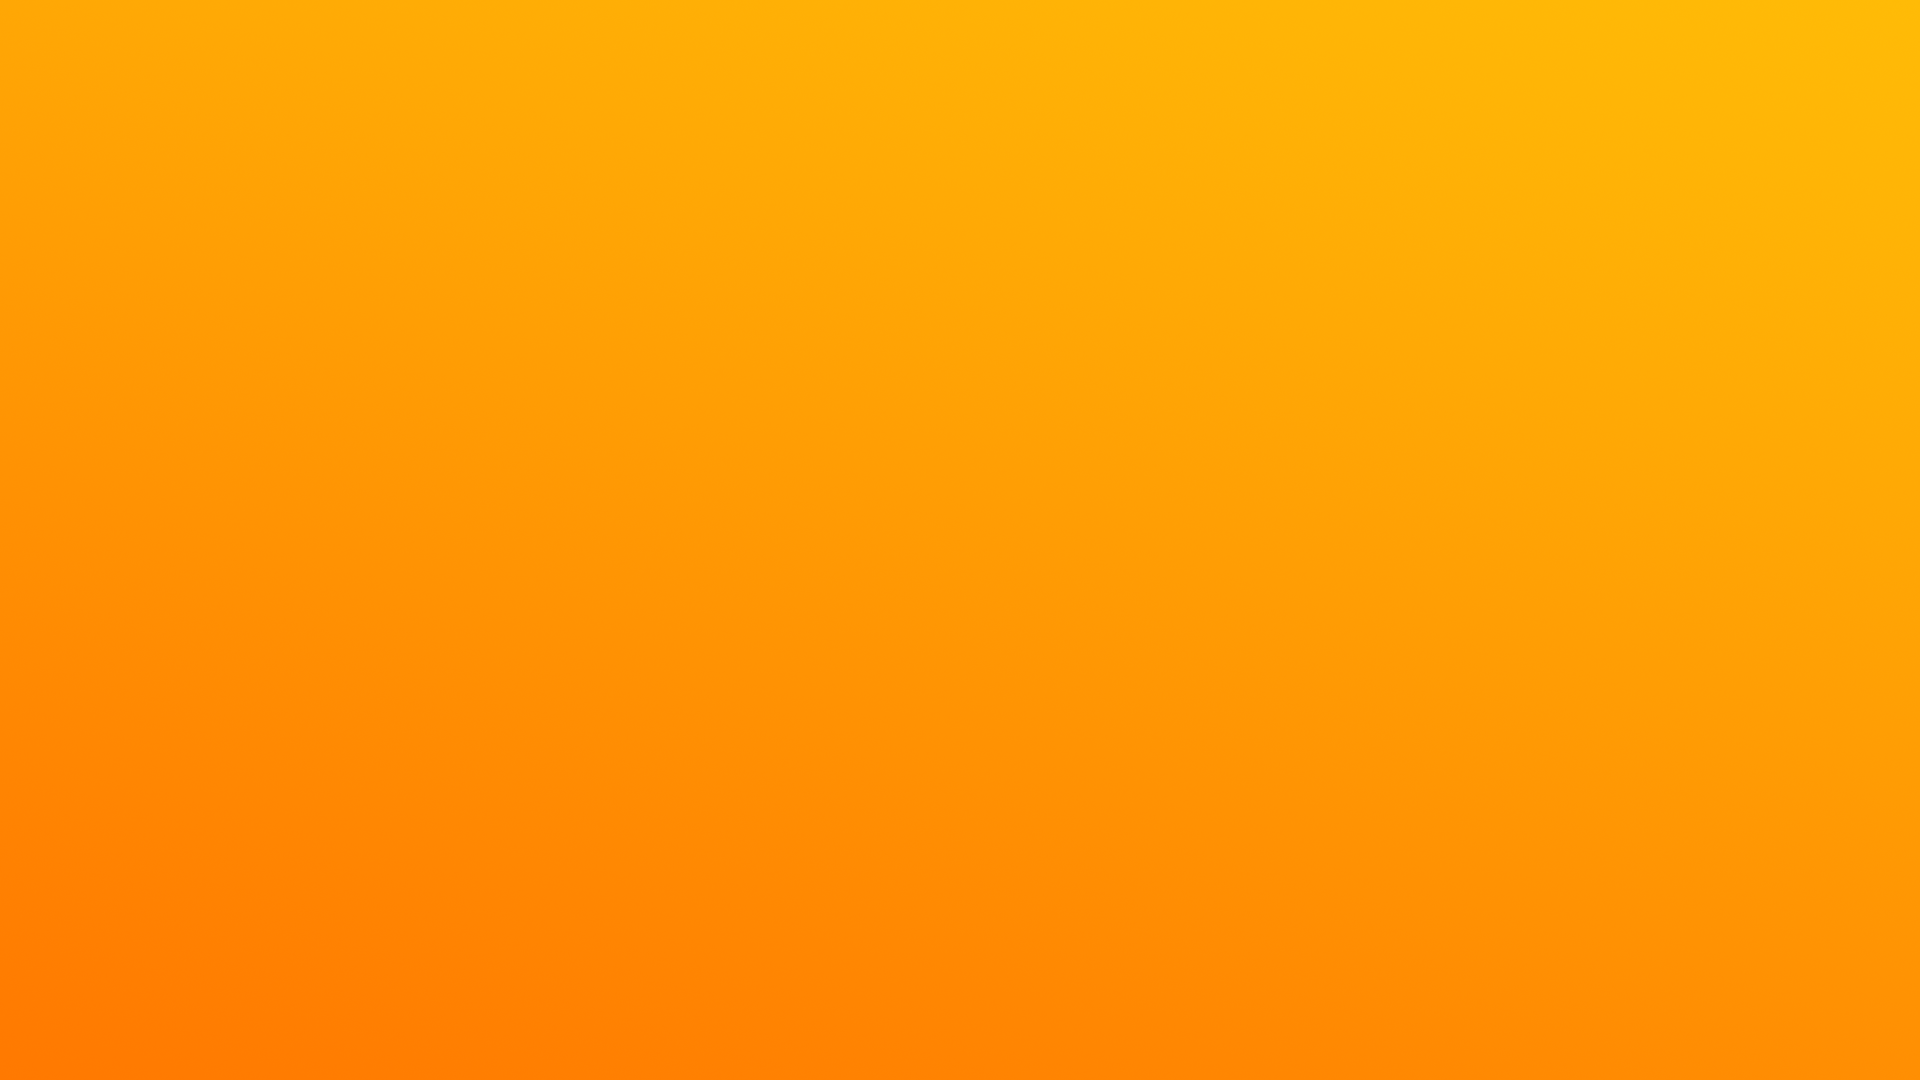
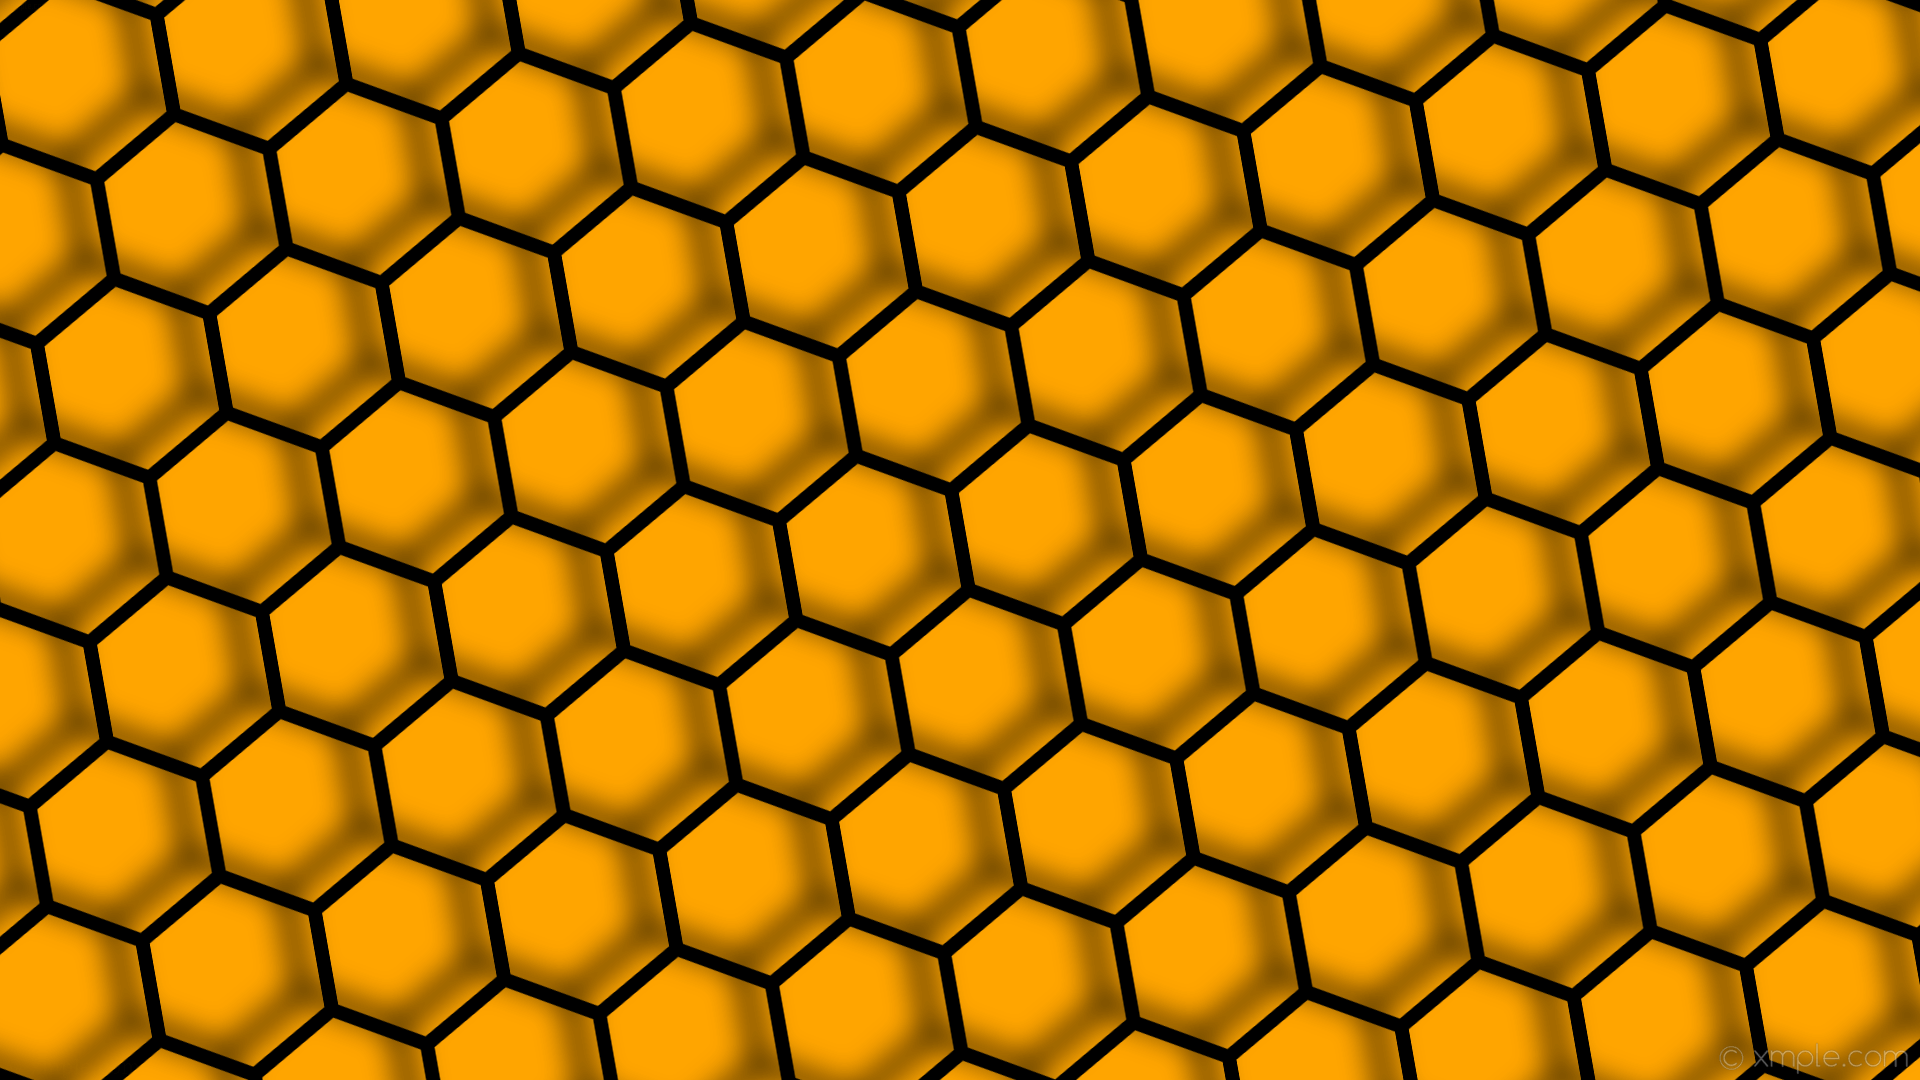
added flying bee + changed navbar #12/02/2020

diff --git a/assets/css/style.css b/assets/css/style.css
@@ -1068,3 +1068,29 @@ a.middle-indicator-text {
 .highcharts-title {
   font-size: 1.5rem !important;
 }
+
+.bee {
+  animation:mymove 5s 2;
+  position: absolute;
+  width: 30px;
+  transform: rotate(90deg);
+  -webkit-animation:bee 5s infinite; /* Safari and Chrome */
+  animation:bee 5s infinite;
+  top:79%;
+}
+
+@keyframes bee
+{
+  0%   {left:-100px;}
+  70% {left:75vw;opacity: 1;}
+  75% {left:75vw;opacity: 0; transition: 0.5s;}
+  100% {left:102vw;opacity: 0;}
+}
+
+@-webkit-keyframes bee /* Safari and Chrome */
+{
+  0%   {left:-100px;}
+  70% {left:75vw;opacity: 1;}
+  75% {left:75vw;opacity: 0; transition: 0.5s;}
+  100% {left:102vw;opacity: 0;}
+}

diff --git a/assets/js/init.js b/assets/js/init.js
@@ -15,7 +15,7 @@ $(document).ready(function () {
         hover: false,
         coverTrigger: false,
         belowOrigin: true,
-        constrainWidth: true,
+        constrainWidth: false,
         alignment: 'right',
     });
 });

diff --git a/index.php b/index.php
@@ -10,16 +10,15 @@
       <link rel="icon" type="image/png" href="<?= $wURL; ?>assets/img/logo/bee.png">
       <script src="https://kit.fontawesome.com/a076d05399.js"></script>
       <link rel="stylesheet" href="https://cdnjs.cloudflare.com/ajax/libs/animate.css/3.7.2/animate.min.css">
-      <script src="https://kit.fontawesome.com/37a49bd997.js" crossorigin="anonymous"></script>
+      <script src="https://kit.fontawesome.com/51d5d17c56.js" crossorigin="anonymous"></script>
       <title><?= $GLOBAL['title'] ?> | Accueil</title>
     </head>
 
     <body>
       <div class="parallax-container">
         <div class="parallax"><img src="assets/img/background/hive.png"></div>
-        <div class="container">
-          <img src="assets/img/logo/hive.png" alt="" style="padding-top:70%:">
-        </div>
+        <img src="assets/img/logo/naturalhive.png" alt="wallpaper" class="right">
+        <img src="assets/img/logo/bee.png" alt="bee" class="bee">
       </div>
       <ul id='diagrams' class='dropdown-content'>
         <li><a href="#!" class="amber-text"><i class="fas fa-balance-scale material-Icons left amber-text"></i>Masse</a></li>
@@ -29,7 +28,7 @@
       <nav>
         <div class="nav-wrapper amber">
           <ul class="left hide-on-med-and-down">
-            <li><a href="sass.html">Sass</a></li>
+            <li><a href="sass.html"><i class="material-icons left">home</i> Accueil</a></li>
             <li><a href="badges.html">Components</a></li>
             <li><a href="collapsible.html">Javascript</a></li>
             <li><a href="mobile.html">Mobile</a></li>
@@ -37,9 +36,10 @@
           <a href="#!" class="brand-logo hide-on-large-only show-on-medium-and-down">Logo</a>
           <a href="#" data-target="mobile-demo" class="sidenav-trigger"><i class="material-icons">menu</i></a>
           <ul class="right hide-on-med-and-down">
-            <li><a class='dropdown-trigger' href='#' data-target='diagrams'>Graphiques<i class="material-icons right">arrow_drop_down</i></a></li>
-            <li><a href="login" class="modal-trigger"><i class="material-icons right">account_circle</i> Mon compte</a></li>
-
+            <li><a class='dropdown-trigger' href='#' data-target='diagrams'><i class="material-icons left">insert_chart</i> Graphiques<i class="material-icons right">arrow_drop_down</i></a></li>
+            <li><a href="login" class="modal-trigger"><i class="fas fa-sign-in-alt material-icons left"></i> Se connecter</a></li>
+            <li><a href="login" class="modal-trigger"><i class="fas fa-sign-in-alt material-icons left"></i> S'enregistrer</a></li>
+            <li><a href="login" class="modal-trigger"><i class="material-icons left">account_circle</i> Mon compte</a></li>
           </ul>
         </div>
       </nav>
@@ -129,8 +129,9 @@
         <div class="container">
           <div class="row">
             <div class="col l6 s12">
-              <h5 class="white-text">Footer Content</h5>
-              <p class="grey-text text-lighten-4">You can use rows and columns here to organize your footer content.</p>
+              <h5 class="white-text">Qui sommes nous ?</h5>
+              <p class="grey-text text-lighten-4">Nous sommes un groupe de 4 élèves en STI2D SIN au lycée Chevrollier, à Angers. BeeSight est notre projet de fin d'année (2019-2020) pour le BAC.</p>
+              <br><iframe src="https://ghbtns.com/github-btn.html?user=tholeb&repo=tlb_beesight&type=watch&count=true&size=large"height="30px" style="border-style:none;"></iframe>
             </div>
             <div class="col l4 offset-l2 s12">
               <h5 class="white-text">Links</h5>
@@ -145,8 +146,9 @@
         </div>
         <div class="footer-copyright">
           <div class="container">
-          © 2014 Copyright Text
-          <a class="grey-text text-lighten-4 right" href="#!">More Links</a>
+          © 2019-2020 Copyright <a href="https://github.com/tholeb/tlb_beesight" class="black-text">BeeSight's members
+         </a>
+          <a class="grey-text text-lighten-4 right" href="about-us">About us</a>
           </div>
         </div>
       </footer>
